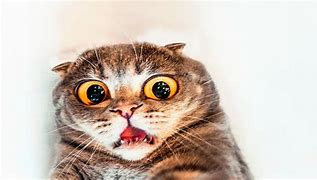
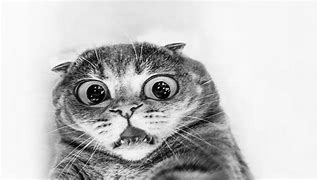
pushing

Changed region(s): [[0.1703, 0.2222, 0.7382, 1.0]]

diff --git a/_pasted_code_32/src/arrays2d/PhotoshopFiller.java b/_pasted_code_32/src/arrays2d/PhotoshopFiller.java
@@ -35,15 +35,17 @@ public class PhotoshopFiller extends Component {
     public void brighten(int amount) {
         outputName = "brightened_" + outputName;
         
+        // for loop that runs through the program
         for (int i = 0; i < pixels.length; i++) {
         	for(int j = 0; j < pixels[i].length; j++) {
         		
         		Color c = pixels[i][j];
-        		
+        		// getting the rgb values and adding them to amount to brighten the image
         		int r = c.getRed() + amount;
         		int g = c.getGreen() + amount;
         		int b = c.getBlue() + amount;
         		
+        		// setting boundaries so value would not excess 255
         		if (r > 255)
         			r = 255;
         		if (g > 255)
@@ -52,7 +54,7 @@ public class PhotoshopFiller extends Component {
         			b = 255;
         		
         		
-        		
+        		// setting boundaries so value would not be less than 0
         		if (r < 0)
         			r = 0;
         		if (g < 0)
@@ -60,6 +62,7 @@ public class PhotoshopFiller extends Component {
         		if (b < 0)
         			b = 0;
         		
+        		// setting new rgb value
         		pixels[i][j] = new Color(r, g,  b);
         	}
         }
@@ -71,14 +74,15 @@ public class PhotoshopFiller extends Component {
     public void flip(boolean horizontally) {
         outputName = (horizontally?"h":"v") + "_flipped_" + outputName;
         
-        // horizantally
-        
+        // horizontally
 		if (horizontally == true) {
 			for (int i = 0; i < pixels.length; i++) {
+				// making another reverse variable for horizontal
 	        	for(int j = 0, k = pixels[i].length-1; j < pixels[i].length/2; j++, k--) {
-	        		
+	        	// setting a temp for swap 
 	        		Color temp = pixels[i][j];
 	        		
+	        		// swapping to make horizontal flip
 	        		pixels[i][j] = pixels[i][k];
 	        		pixels[i][k] = temp;
 	        		
@@ -90,12 +94,14 @@ public class PhotoshopFiller extends Component {
         
         else {
         	
-        
+        	// setting a reverse variable for vertical
         	for (int i = 0,  k = pixels.length-1; i < pixels.length/2; i++, k--) {
 	        	for(int j = 0; j < pixels[i].length; j++) {
 	        		
+	        		// setting a temp for swap
 	        		Color temp = pixels[i][j];
 	        		
+	        		// swapping to make vertical flip
 	        		pixels[i][j] = pixels[k][j];
 	        		pixels[k][j] = temp;
 	        		
@@ -120,11 +126,13 @@ public class PhotoshopFiller extends Component {
         		
         		Color c = pixels[i][j];
         		
+        		// getting rgb value and subtracting them from 255 to get negate.
         		int r = 255 - c.getRed();
         		int g = 255 - c.getGreen();
         		int b = 255 - c.getBlue();
         		
         		
+        		// setting boundaries so the values do not exceed 255
         		if (r > 255)
         			r = 255;
         		if (g > 255)
@@ -153,24 +161,139 @@ public class PhotoshopFiller extends Component {
                 Color.BLACK, Color.WHITE, Color.GREEN, Color.YELLOW, Color.CYAN};
         outputName = "simplified_" + outputName;
         
-        // your code here
+    
+    	for (int i = 0; i < pixels.length; i++) {
+        	for(int j = 0; j < pixels[i].length; j++) {
+        		
+        		// setting infinit value for minimum.
+        		double min = Integer.MAX_VALUE;
+        		// setting default rgb value.
+        		Color rgb = Color.GREEN;
+        		
+        		// for loop that runs through given list
+        		for (int co = 0; co < colorList.length; co++) {
+        			
+        			// importing the distance formula
+        			double math = distance(pixels[i][j], colorList[co]);
+        			// if distance(3d) between the pixel and the color is smaller smaller than min, then 
+        			// min = math and rgb is the matching color in the given list
+        			if(math < min) {
+        				min = math;
+        				rgb = colorList[co];
+        			}
+        				
+        			
+        			
+        		}
+        		
+        		// setting the pixel to new rgb value
+        		pixels[i][j] = rgb;
+        
+        	}
+        }
+        
+        
          
     }
     
     // optional helper method (recommended) that finds the 'distance' 
     // between two colors.
     // use the 3d distance formula to calculate
+   
+  
+    
     public double distance(Color c1, Color c2) {
     	
-    		return 0;	// fix this
+    	 Color c = c1;
+ 		// getting rgb value of c1
+         int r = c.getRed();
+         int g = c.getGreen();
+         int b = c.getBlue();
+         		
+         
+         Color ctwo = c2;
+         
+         // getting rgb value of c2
+         int r2 = ctwo.getRed();
+         int g2 = ctwo.getGreen();
+         int b2 = ctwo.getBlue();
+         
+         // 3D distance formula,two r subtract, two g subtract, two b subtract and all of their squares square rooted
+         // and then added together.
+         double first = Math.pow(r-r2, 2);
+         double second = Math.pow(g- g2,  2);	
+         double third = Math.pow(b - b2,  2);
+         
+        return Math.sqrt(first + second + third);
+    
+    			// fix this
     }
     
     // this blurs the image
     // to do this: at each pixel, sum the 8 surrounding pixels' rgb values 
     // with the current pixel's own rgb value. 
     // divide this sum by 9, and set it as the rgb value for the blurred image
+    
     public void blur() {
 		outputName = "blurred_" + outputName;
+		// variables for sums
+		int sumr = 0;
+		int sumg = 0;
+		int sumb = 0;
+		
+		for (int i = 1; i < pixels.length-1; i ++) {
+        	for(int j = 1; j < pixels[i].length-1; j ++) {
+        	
+        		// getting values of the pixel and its eight surrounding pixels.
+        		Color c = pixels[i-1][j-1];
+        		int r1 = c.getRed();
+        		int g1 = c.getGreen();
+        		int b1 = c.getBlue();
+        		Color c2 = pixels[i-1][j];
+        		int r2 = c2.getRed();
+        		int g2 = c2.getGreen();
+        		int b2 = c2.getBlue();
+        		Color c3 = pixels[i-1][j+1];
+        		int r3 = c3.getRed();
+        		int g3 = c3.getGreen();
+        		int b3 = c3.getBlue();		
+        		Color c4 = pixels[i][j-1];
+        		int r4 = c4.getRed();
+        		int g4 = c4.getGreen();
+        		int b4 = c4.getBlue();
+        		Color c5 = pixels[i][j];
+        		int r5 = c5.getRed();
+        		int g5 = c5.getGreen();
+        		int b5 = c5.getBlue();
+        		Color c6 = pixels[i][j+1];
+        		int r6 = c6.getRed();
+        		int g6 = c6.getGreen();
+        		int b6 = c6.getBlue();
+        		Color c7 = pixels[i+1][j-1];
+        		int r7 = c7.getRed();
+        		int g7 = c7.getGreen();
+        		int b7 = c7.getBlue();
+        		Color c8 = pixels[i+1][j];
+        		int r8 = c8.getRed();
+        		int g8 = c8.getGreen();
+        		int b8 = c8.getBlue();
+        		Color c9 = pixels[i+1][j+1];
+        		int r9 = c9.getRed();
+        		int g9 = c9.getGreen();
+        		int b9 = c9.getBlue();
+        		
+        		//sums of the pixel and its surrounding pixels
+        		sumr = r1 + r2 + r3 + r4 + r5 + r6 + r7 + r8 + r9;
+        		sumg = g1 + g2 + g3 + g4 + g5 + g6 + g7 + g8 + g9;
+        		sumb = b1 + b2 + b3 + b4 + b5 + b6 + b7 + b8 + b9;
+        		
+        		
+        		//set the sum of pixels divided by nine and use as new rgb value
+        		pixels[i][j] = new Color(sumr/9, sumg/9,  sumb/9); 
+        		
+        	}
+		}
+		
 		
 		// your code here
 	}
@@ -181,8 +304,113 @@ public class PhotoshopFiller extends Component {
     // this value is the rgb value for the 'edged' image
     public void edge() {
         outputName = "edged_" + outputName;
-
+        
+        // similar to previous, setting sum values
+        int sumr = 0;
+		int sumg = 0;
+		int sumb = 0;
+		
+		//a new blank canvas to relocate the pixels on to avoid error
+		Color[][] finaledge = new Color[pixels.length][pixels[0].length];
+		
+        for (int i = 1; i < pixels.length-1; i ++) {
+        	for (int j = 1; j < pixels[i].length-1; j ++) {
+        		
+        		// getting the pixel and its surrounding pixels values
+        		Color c = pixels[i-1][j-1];
+        		int r1 = c.getRed();
+        		int g1 = c.getGreen();
+        		int b1 = c.getBlue();
+        		Color c2 = pixels[i-1][j];
+        		int r2 = c2.getRed();
+        		int g2 = c2.getGreen();
+        		int b2 = c2.getBlue();
+        		Color c3 = pixels[i-1][j+1];
+        		int r3 = c3.getRed();
+        		int g3 = c3.getGreen();
+        		int b3 = c3.getBlue();		
+        		Color c4 = pixels[i][j-1];
+        		int r4 = c4.getRed();
+        		int g4 = c4.getGreen();
+        		int b4 = c4.getBlue();
+        		Color c5 = pixels[i][j];
+        		int r5 = c5.getRed();
+        		int g5 = c5.getGreen();
+        		int b5 = c5.getBlue();
+        		Color c6 = pixels[i][j+1];
+        		int r6 = c6.getRed();
+        		int g6 = c6.getGreen();
+        		int b6 = c6.getBlue();
+        		Color c7 = pixels[i+1][j-1];
+        		int r7 = c7.getRed();
+        		int g7 = c7.getGreen();
+        		int b7 = c7.getBlue();
+        		Color c8 = pixels[i+1][j];
+        		int r8 = c8.getRed();
+        		int g8 = c8.getGreen();
+        		int b8 = c8.getBlue();
+        		Color c9 = pixels[i+1][j+1];
+        		int r9 = c9.getRed();
+        		int g9 = c9.getGreen();
+        		int b9 = c9.getBlue();
+        		
+        		// the pixel times eight and minus the surrounding pixels to get edge effect
+        		sumr = (r5 * 8) - (r1 + r2 + r3 + r4 + r6 + r7 + r8 + r9);
+        		sumg = (g5 * 8) - (g1 + g2 + g3 + g4 + g6 + g7 + g8 + g9);
+        		sumb = (b5 * 8) - (b1 + b2 + b3 + b4 + b6 + b7 + b8 + b9);
+        		
+        		// setting boundaries so the pixel would not exceed 255
+        		if (sumr > 255)
+        			sumr = 255;
+        		if (sumg > 255)
+        			sumg = 255;
+        		if (sumb > 255)
+        			sumb = 255;
+        		
+        		// setting boundaries so the pixel would not be negative
+        		if (sumr < 0)
+        			sumr = 0;
+        		if (sumg < 0)
+        			sumg = 0;
+        		if (sumb < 0)
+        			sumb = 0;
+        		
+        		//setting new values as new rgb or putting pixels onto finaledge
+        		finaledge[i][j] = new Color(sumr, sumg, sumb); 
+        	
+        	}
+		}
+        
+        for (int i = 1; i < pixels.length-1; i ++) {
+        	for (int j = 1; j < pixels[i].length-1; j ++) {
+        		// filling in the canvas and making it complete
+        		pixels[i][j] = finaledge[i][j];
+        		
+        	}
+        }
         // your code here
+    }
+    
+    public void greyscale() {
+    	
+    	for (int i = 0; i < pixels.length; i ++) {
+        	for (int j = 0; j < pixels[i].length; j ++) {
+        		
+        		// getting rgb values
+        		Color c = pixels[i][j];
+        		int r = c.getRed();
+        		int g = c.getGreen();
+        		int b = c.getBlue();
+        		
+        		// getting the average
+        		int avg = (r+g+b)/3;
+        		
+        		// using the averages as the new rgb value so would be greyscale.
+        		pixels[i][j] = new Color(avg, avg, avg); 
+    	
+        	}
+    	}
+    	
     }
     
     
@@ -196,7 +424,7 @@ public class PhotoshopFiller extends Component {
     public void run() {
     	JFileChooser fc = new JFileChooser();
 		File workingDirectory = new File(System.getProperty("user.dir")+System.getProperty("file.separator")+ "Images");
-		fc.setCurrentDirectory(workingDirectory);
+		//fc.setCurrentDirectory(workingDirectory);
 		fc.showOpenDialog(null);
 		File my_file = fc.getSelectedFile();
 		if (my_file == null)
